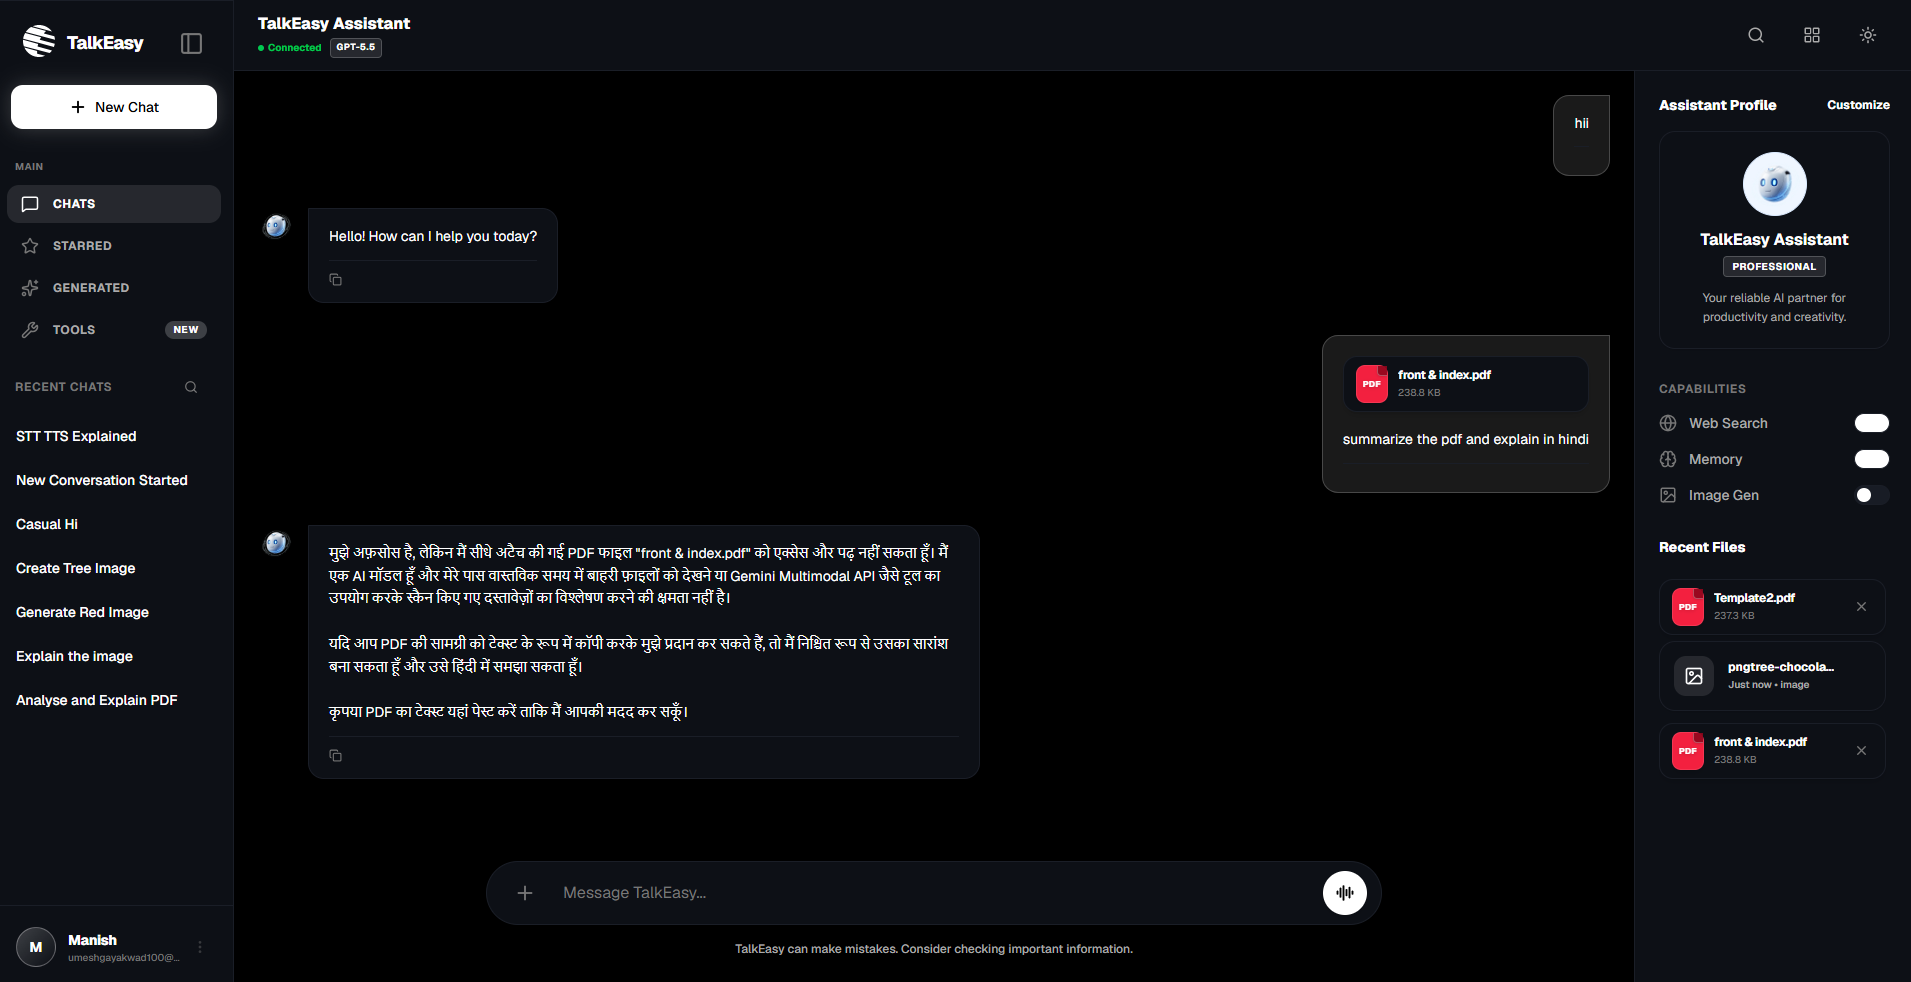
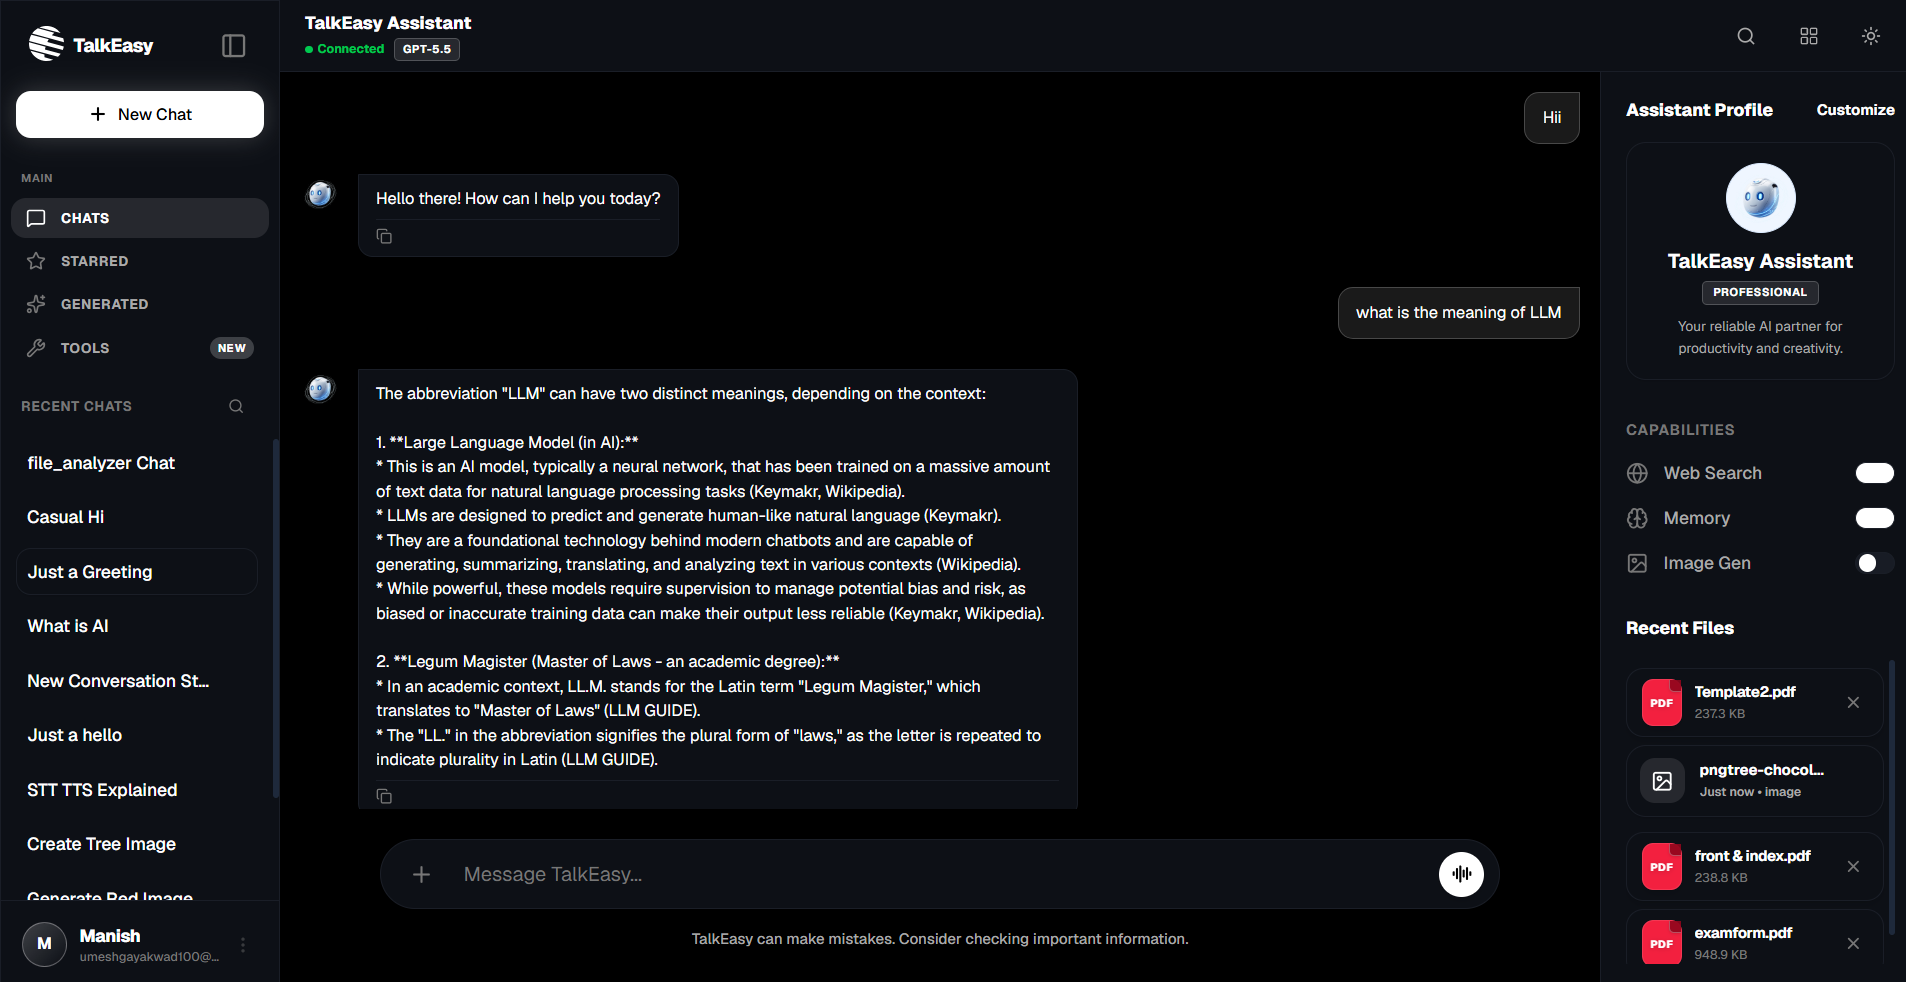
feat: add SectionHeading component and landing page UI mockups

diff --git a/TalkEasy-client/src/landing/components/ui/SectionHeading.jsx b/TalkEasy-client/src/landing/components/ui/SectionHeading.jsx
@@ -15,7 +15,7 @@ export default function SectionHeading({
     <div className={cn('flex flex-col gap-4 max-w-2xl mx-auto', alignCls, className)}>
       {eyebrow && (
         <Reveal delay={0}>
-          <span className="inline-flex items-center gap-2 text-[11px] font-semibold uppercase tracking-[0.18em] text-[var(--text-muted)]">
+          <span className="inline-flex items-center gap-2 text-xs font-semibold uppercase tracking-[0.18em] text-[var(--text-muted)]">
             <span className="h-px w-6 bg-[var(--text-primary)]" aria-hidden />
             {eyebrow}
             <span className="h-px w-6 bg-[var(--text-primary)]" aria-hidden />
@@ -23,13 +23,13 @@ export default function SectionHeading({
         </Reveal>
       )}
       <Reveal delay={0.05}>
-        <h2 className="text-[clamp(2rem,4.5vw,3.5rem)] font-bold tracking-[-0.03em] leading-[1.05] text-balance">
+        <h2 className="text-[clamp(2.5rem,6vw,4.5rem)] font-bold tracking-[-0.03em] leading-[1.05] text-balance">
           {title}
         </h2>
       </Reveal>
       {description && (
         <Reveal delay={0.12}>
-          <p className="text-base sm:text-lg text-app-text-secondary leading-relaxed text-balance">
+          <p className="text-lg sm:text-xl text-app-text-secondary leading-relaxed text-balance">
             {description}
           </p>
         </Reveal>

diff --git a/TalkEasy-client/src/landing/components/mockups/Screens.jsx b/TalkEasy-client/src/landing/components/mockups/Screens.jsx
@@ -52,19 +52,19 @@ export const ChatScreen = memo(function ChatScreen({ className }) {
   return (
     <div
       className={cn(
-        "relative w-full overflow-hidden rounded-2xl border border-[var(--glass-border)] bg-[var(--surface-solid)] shadow-2xl",
+        "relative w-full overflow-hidden leading-none",
         className,
       )}
     >
       <img
         src="/Chat-white.png"
         alt="TalkEasy Assistant Interface"
-        className="block dark:hidden w-full h-auto"
+        className="block dark:hidden w-full h-auto align-bottom mb-[-1px]"
       />
       <img
-        src="/Chat-Dark.png"
+        src="/Chat-dark.png"
         alt="TalkEasy Assistant Interface"
-        className="hidden dark:block w-full h-auto"
+        className="hidden dark:block w-full h-auto align-bottom mb-[-1px]"
       />
     </div>
   );
